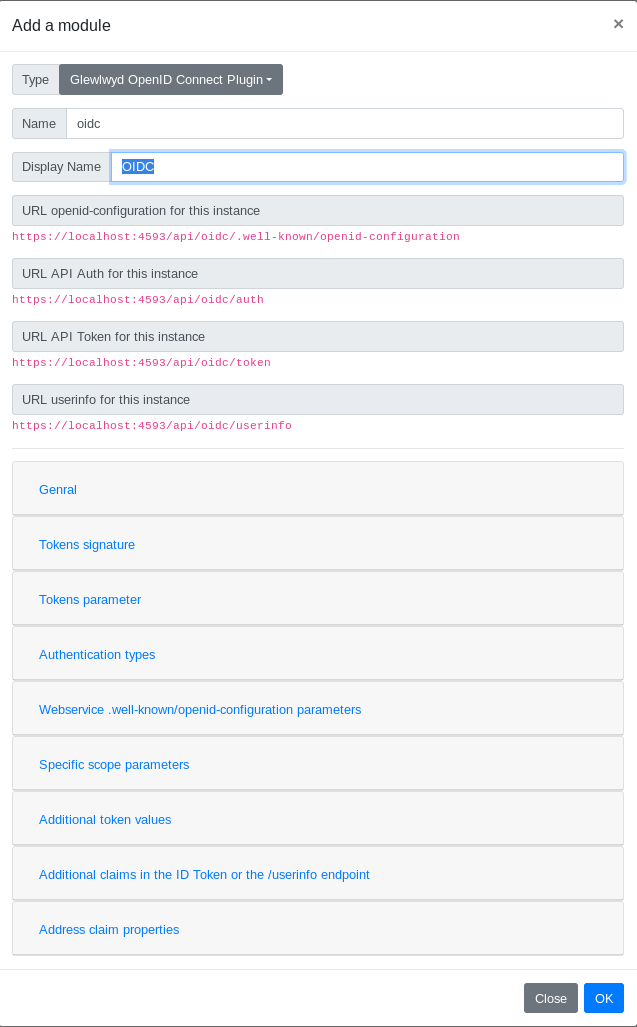
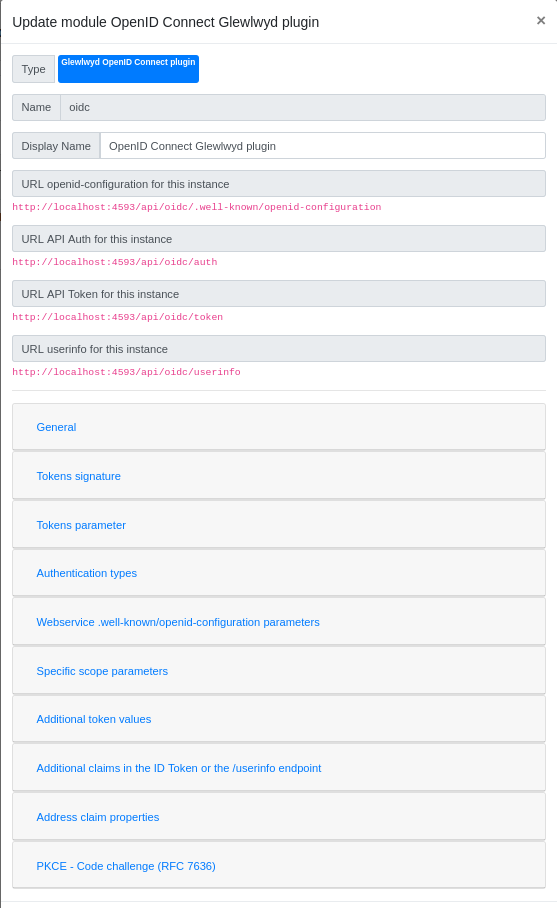
Document pkce for oauth2 and oidc

diff --git a/docs/OAUTH2.md b/docs/OAUTH2.md
@@ -11,6 +11,7 @@ The following OAuth2 functionalities are supported:
 - [Resource Owner Password Credentials](https://tools.ietf.org/html/rfc6749#section-1.3.3)
 - [Client Credentials](https://tools.ietf.org/html/rfc6749#section-1.3.3)
 - [Refreshing an Access Token](https://tools.ietf.org/html/rfc6749#section-6)
+- [Proof Key for Code Exchange by OAuth Public Clients](https://tools.ietf.org/html/rfc7636)
 
 ## Access token format
 
@@ -144,6 +145,27 @@ When you add or edit a client in Glewlwyd, you can set a `client secret` or a `p
 The primary difference is that a client secret is a string stored 'as is' in the backend (database or LDAP), without hashing, where a client password is stored in a hashed form in the backend, so makes it more difficult for attackers to retrieve it.
 
 A client secret has priority over a client password, which means that if a client has set both client secret and client password, the authentication will be executed with client secret only.
+
+## PKCE - Code challenge (RFC 7636)
+
+This section is used to configure [Proof Key for Code Exchange by OAuth Public Clients](https://tools.ietf.org/html/rfc7636).
+
+### PKCE allowed
+
+Enable this feature if you want to support code challenge.
+
+### Method plain allowed
+
+Enable this feature if you want to allow method plain in th code challenge feature. It is not recommended to enable this feature unless you know what you do because this feature is slightly less secure than default method S256.
+
+According to [the specifications](https://tools.ietf.org/html/rfc7636#section-4.2):
+
+```
+Clients are
+permitted to use "plain" only if they cannot support "S256" for some
+technical reason and know via out-of-band configuration that the
+server supports "plain".
+```
 
 ## Glewlwyd OAuth 2 endpoints specifications
 

diff --git a/docs/OIDC.md b/docs/OIDC.md
@@ -18,6 +18,7 @@ The following OpenID Connect Core functionalities are currently supported:
 - [Client authentication](https://openid.net/specs/openid-connect-core-1_0.html#ClientAuthentication) using HTTP Basic Auth, POST Parameter or JWT
 - [Passing Request Parameters as JWTs](https://openid.net/specs/openid-connect-core-1_0.html#JWTRequests)
 - [Subject Types public or pairwise](https://openid.net/specs/openid-connect-core-1_0.html#SubjectIDTypes)
+- [Proof Key for Code Exchange by OAuth Public Clients](https://tools.ietf.org/html/rfc7636)
 
 The following OpenID Connect Core functionalities are not supported yet:
 
@@ -271,6 +272,27 @@ For example:
 ```
 
 To have a claim available in the claim request, it must be set to `on-demand` in the plugin configuration.
+
+## PKCE - Code challenge (RFC 7636)
+
+This section is used to configure [Proof Key for Code Exchange by OAuth Public Clients](https://tools.ietf.org/html/rfc7636).
+
+### PKCE allowed
+
+Enable this feature if you want to support code challenge.
+
+### Method plain allowed
+
+Enable this feature if you want to allow method plain in th code challenge feature. It is not recommended to enable this feature unless you know what you do because this feature is slightly less secure than default method S256.
+
+According to [the specifications](https://tools.ietf.org/html/rfc7636#section-4.2):
+
+```
+Clients are
+permitted to use "plain" only if they cannot support "S256" for some
+technical reason and know via out-of-band configuration that the
+server supports "plain".
+```
 
 ## Client secret vs password
 
